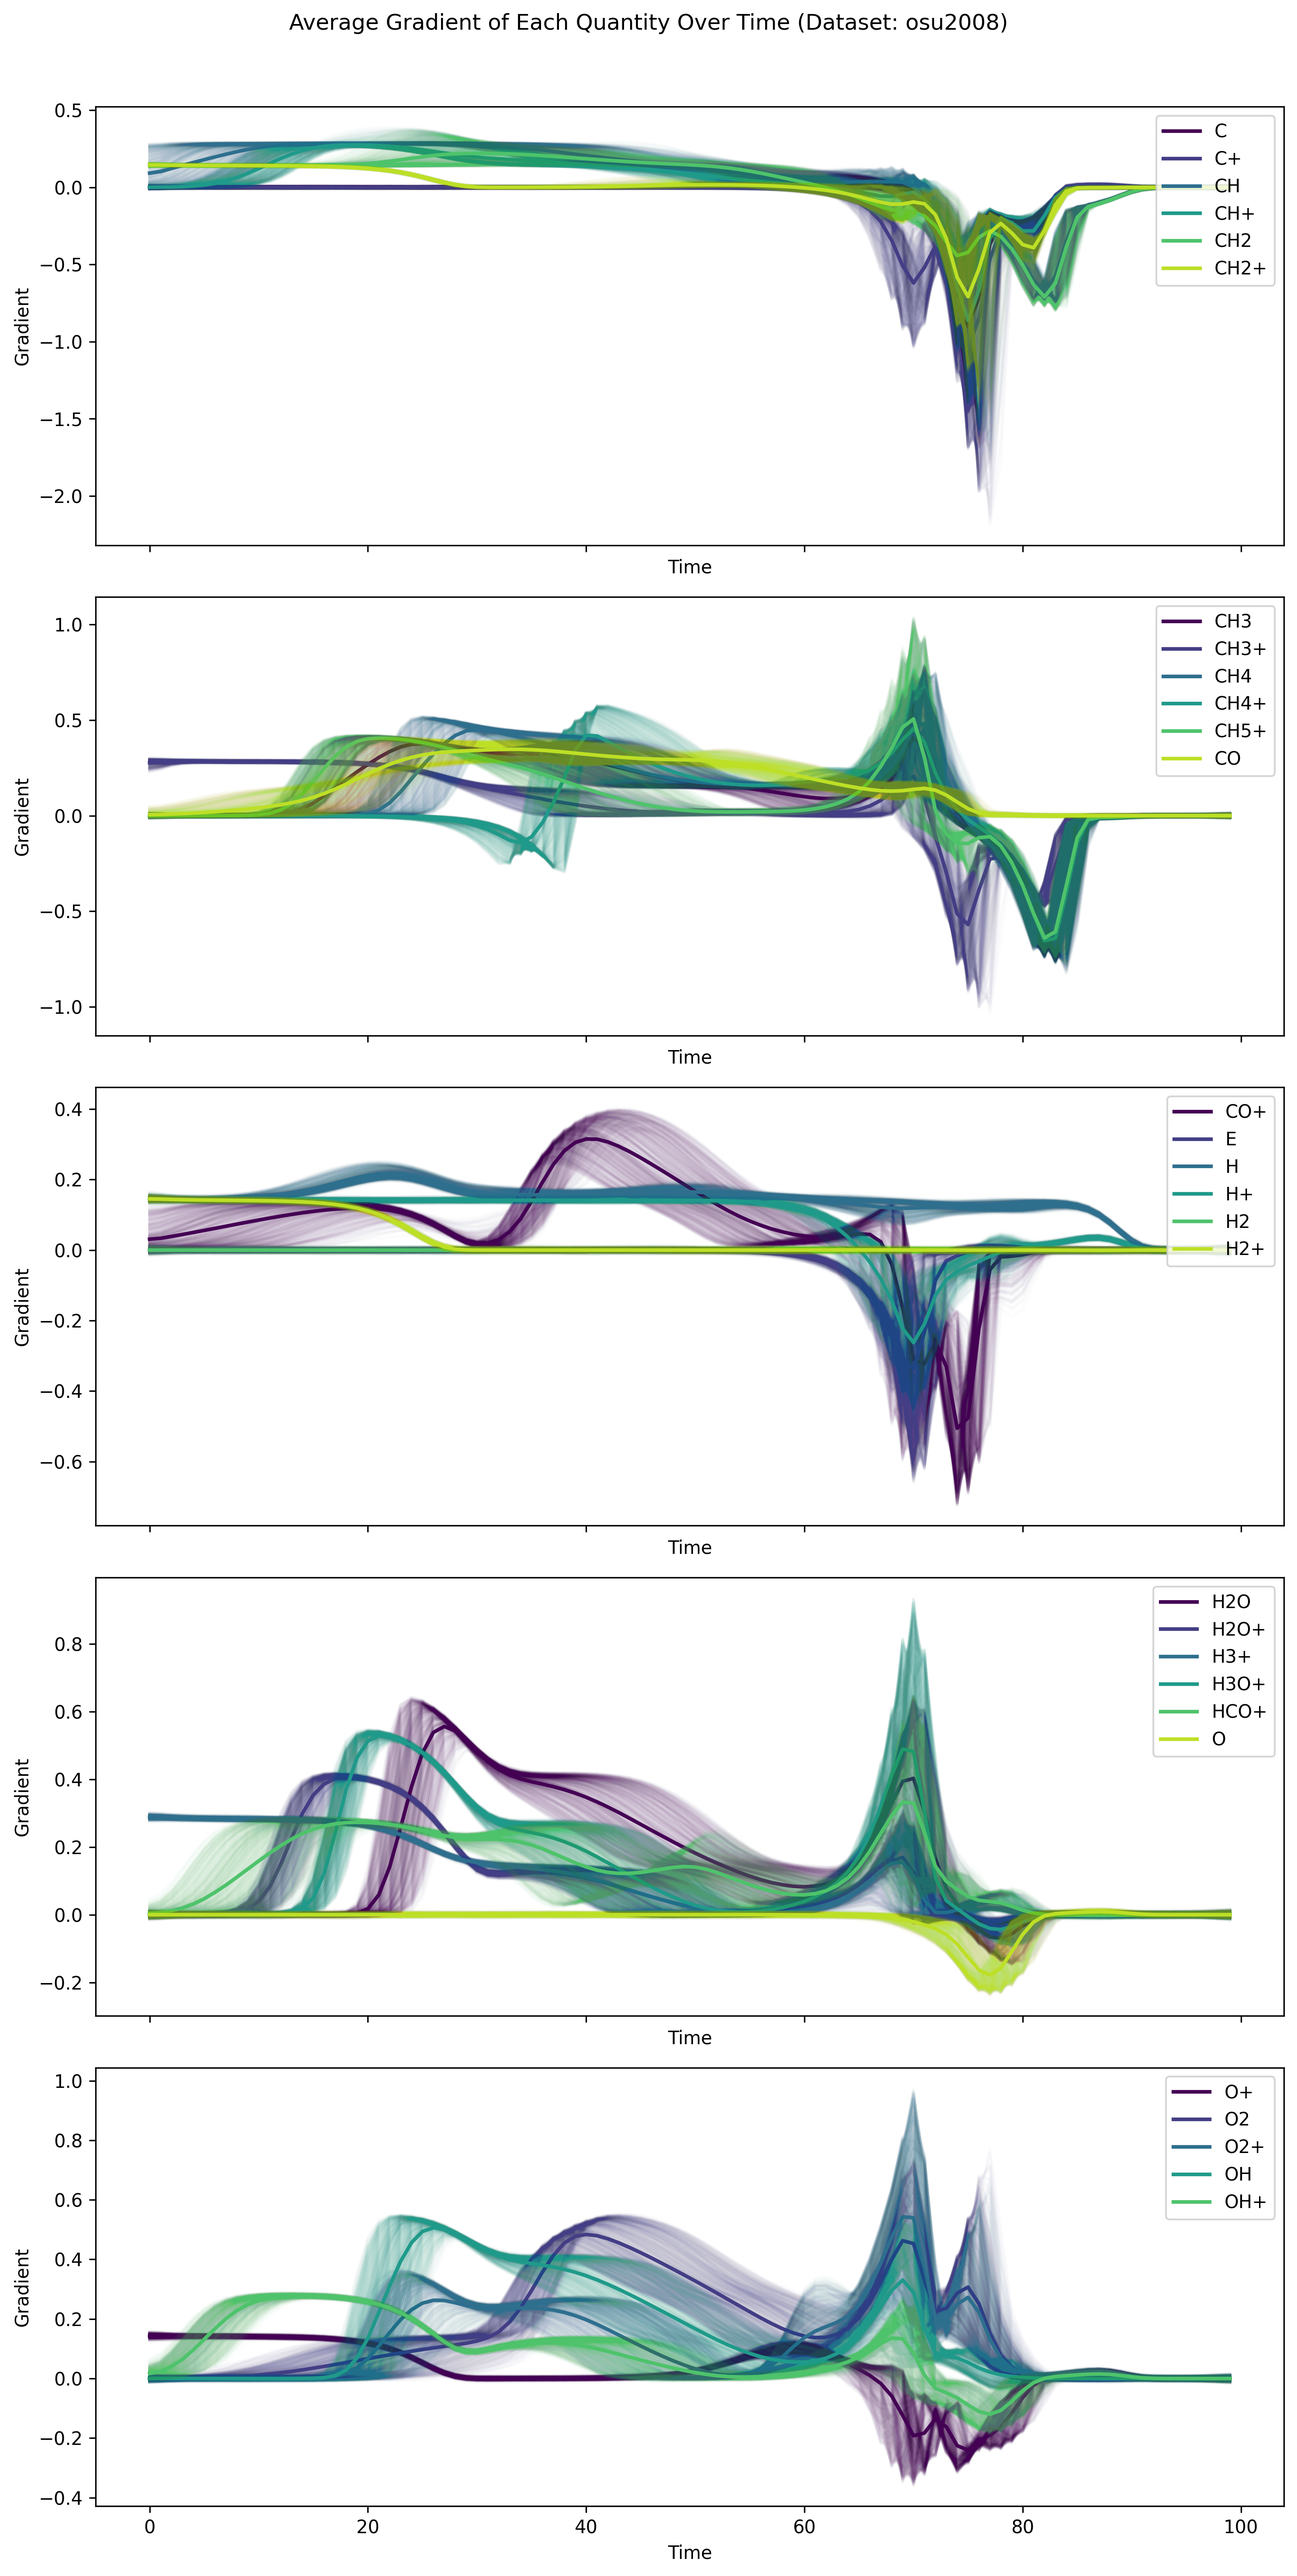
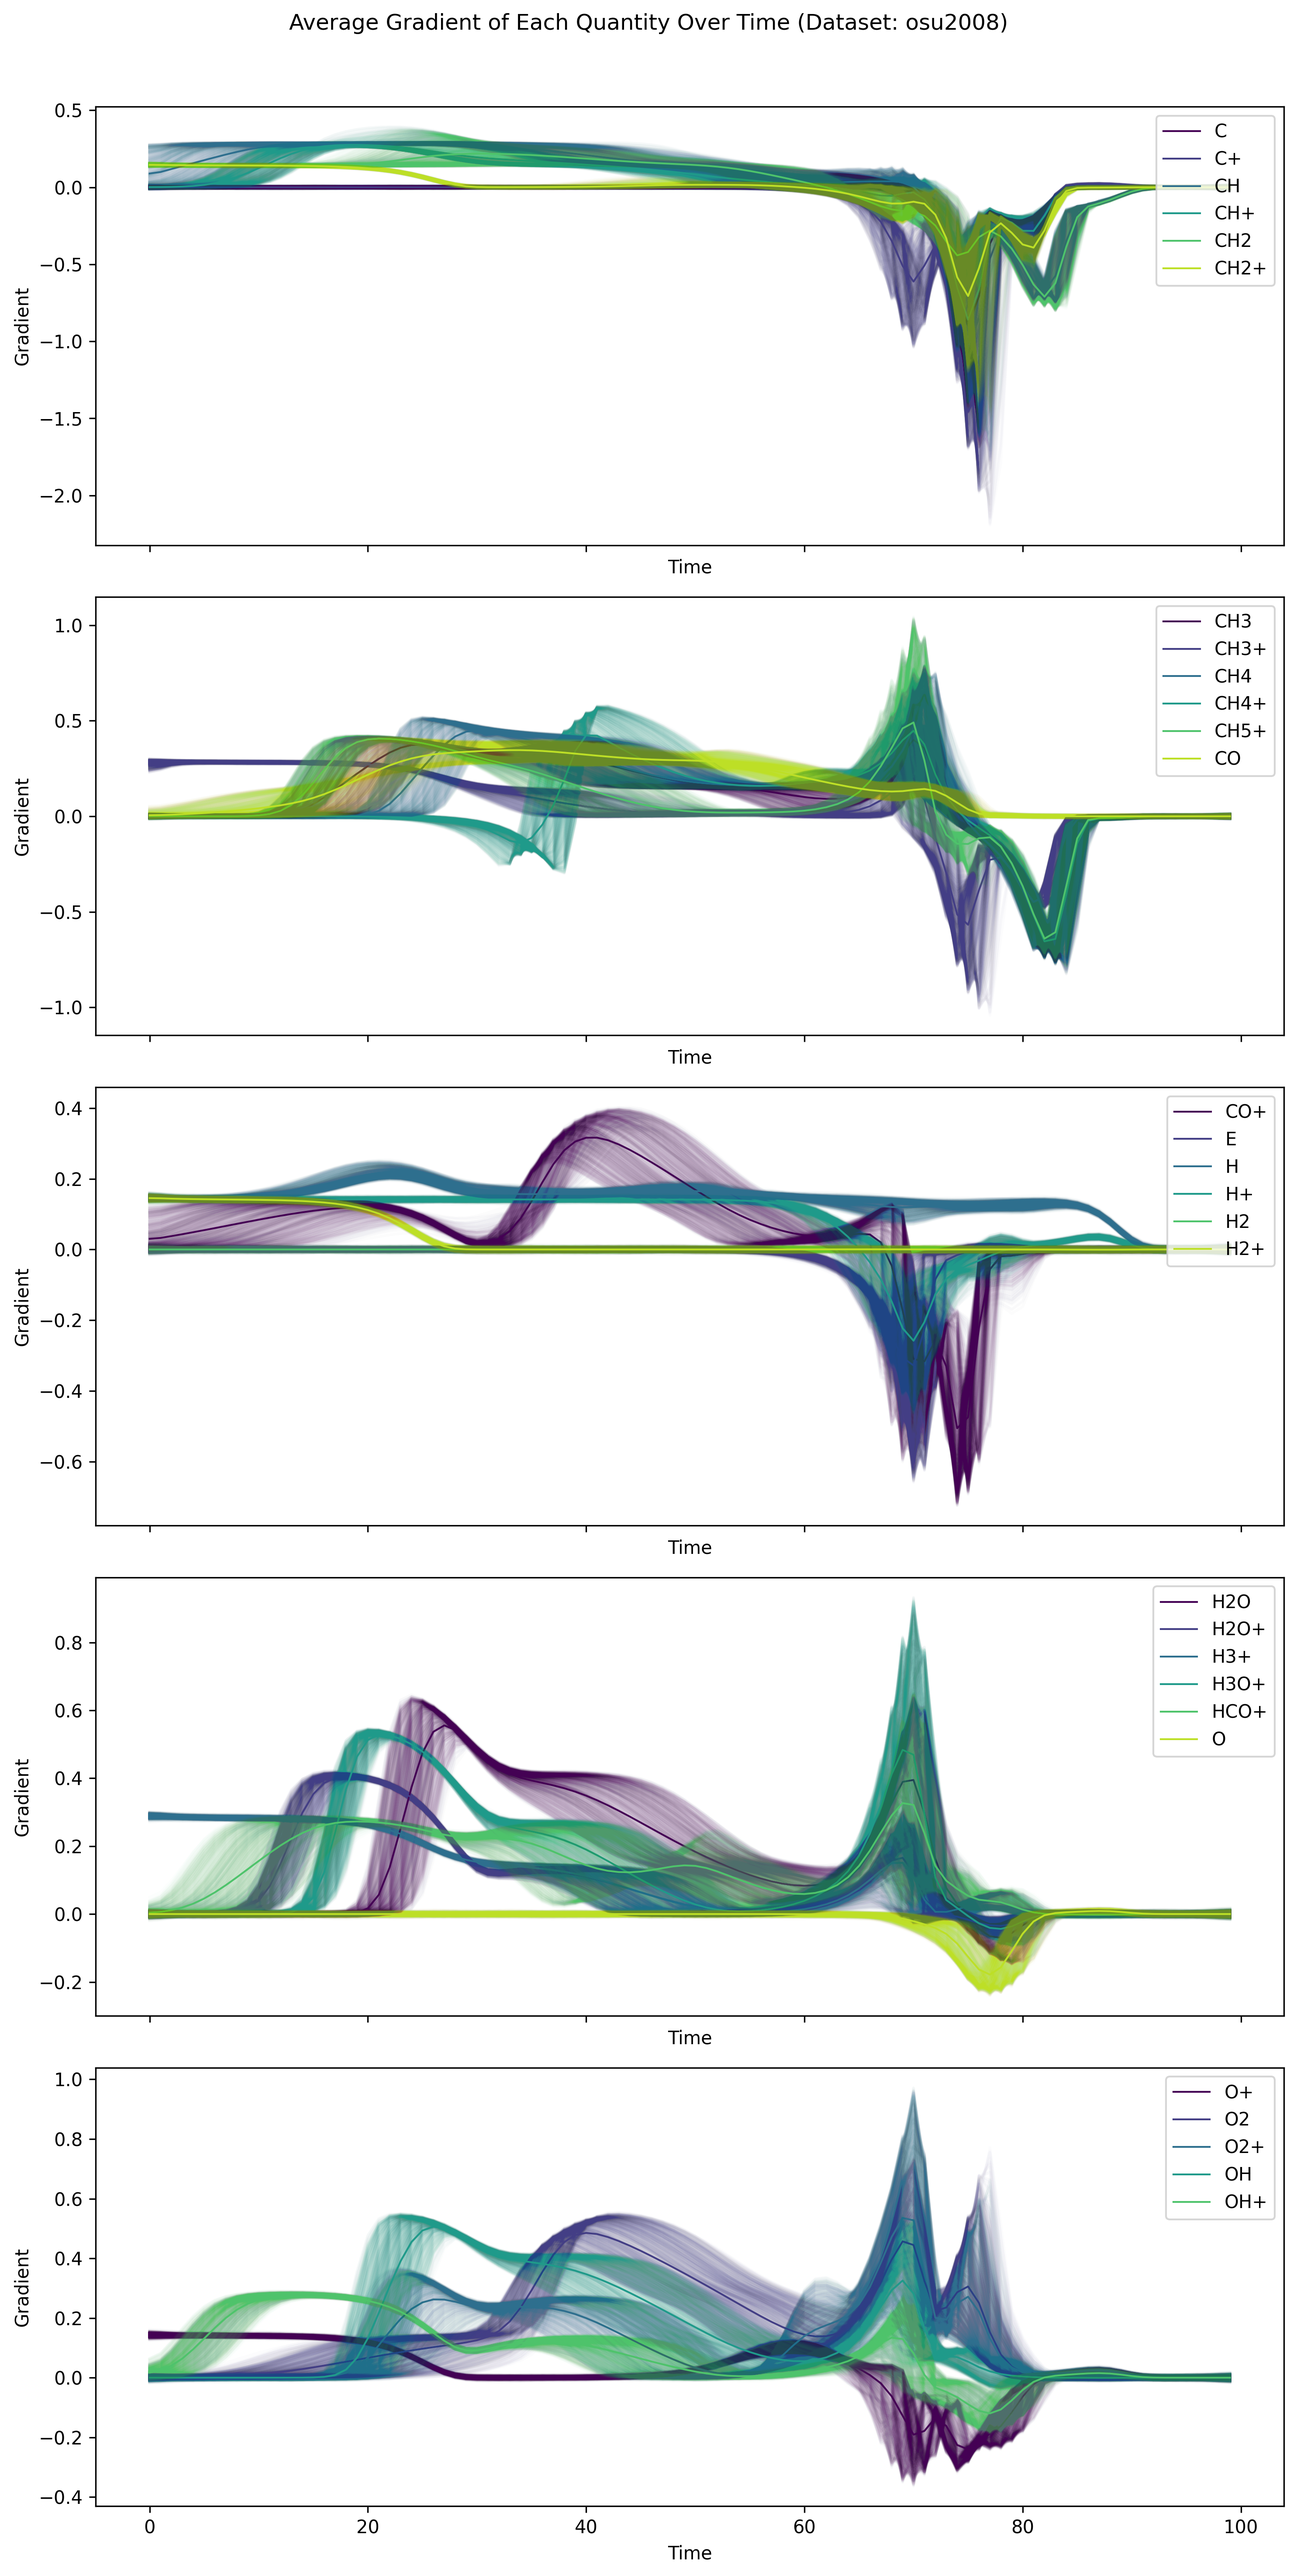
Redesigned plots and refined data generation

diff --git a/datasets/_data_generation/odes.py b/datasets/_data_generation/odes.py
@@ -3,36 +3,6 @@ from typing import Any, Dict
 import numpy as np
 
 
-def lotka_volterra_backup(t: float, n: np.ndarray) -> np.ndarray:
-    """
-    Defines the Lotka-Volterra predator-prey model with three predators and three prey.
-
-    Parameters
-    ----------
-    t : float
-        Current time.
-    n : np.ndarray
-        Current populations [p1, p2, p3, q1, q2, q3].
-
-    Returns
-    -------
-    np.ndarray
-        Derivatives [dp1/dt, dp2/dt, dp3/dt, dq1/dt, dq2/dt, dq3/dt].
-    """
-    p1, p2, p3, q1, q2, q3 = n
-    derivatives = np.array(
-        [
-            0.5 * p1 - 0.02 * p1 * q1 - 0.01 * p1 * q2,
-            0.6 * p2 - 0.03 * p2 * q1 - 0.015 * p2 * q3,
-            0.4 * p3 - 0.01 * p3 * q2 - 0.025 * p3 * q3,
-            -0.1 * q1 + 0.005 * p1 * q1 + 0.007 * p2 * q1,
-            -0.08 * q2 + 0.006 * p1 * q2 + 0.009 * p3 * q2,
-            -0.12 * q3 + 0.008 * p2 * q3 + 0.01 * p3 * q3,
-        ]
-    )
-    return derivatives
-
-
 def lotka_volterra(t: float, n: np.ndarray) -> np.ndarray:
     """
     Defines the Lotka-Volterra predator-prey model with three predators and three prey.
@@ -63,7 +33,7 @@ def lotka_volterra(t: float, n: np.ndarray) -> np.ndarray:
     return derivatives
 
 
-def reaction(t: float, n: np.ndarray) -> np.ndarray:
+def reaction_backup(t: float, n: np.ndarray) -> np.ndarray:
     """
     Defines a simple chemical reaction system.
 
@@ -92,6 +62,63 @@ def reaction(t: float, n: np.ndarray) -> np.ndarray:
     return derivatives
 
 
+import numpy as np
+
+
+def reaction(t: float, n: np.ndarray) -> np.ndarray:
+    """
+    Defines a chemically motivated reaction system with five species.
+
+    Reactions:
+        1. A → B                 (k1)
+        2. B + C ↔ D            (k2, k_minus2)
+        3. 2D → E               (k3)
+        4. E → A + C            (k4)
+        5. C → A                (k5)
+
+    Parameters
+    ----------
+    t : float
+        Current time.
+    n : np.ndarray
+        Current concentrations [A, B, C, D, E].
+
+    Returns
+    -------
+    np.ndarray
+        Derivatives [dA/dt, dB/dt, dC/dt, dD/dt, dE/dt].
+    """
+    # Unpack concentrations
+    s1, s2, s3, s4, s5 = n
+
+    # Define rate constants
+    k1 = 0.25  # Rate constant for A → B
+    k2 = 0.5  # Forward rate constant for B + C → D
+    k_minus2 = 0.25  # Reverse rate constant for D → B + C
+    k3 = 0.1  # Rate constant for 2D → E
+    k4 = 0.15  # Rate constant for E → A + C
+    k5 = 0.05  # Rate constant for C → A
+
+    # Calculate reaction rates
+    rate1 = k1 * s1
+    rate2_forward = k2 * s2 * s3
+    rate2_reverse = k_minus2 * s4
+    rate2_net = rate2_forward - rate2_reverse
+    rate3 = k3 * s4**2
+    rate4 = k4 * s5
+    rate5 = k5 * s3
+
+    # Differential equations
+    ds1_dt = -rate1 + rate4 + rate5
+    ds2_dt = rate1 - rate2_net
+    ds3_dt = -rate2_net - rate5 + rate4
+    ds4_dt = rate2_net - 2 * rate3
+    ds5_dt = rate3 - rate4
+
+    # Return derivatives
+    return np.array([ds1_dt, ds2_dt, ds3_dt, ds4_dt, ds5_dt])
+
+
 FUNCS: Dict[str, Dict[str, Any]] = {
     "lotka_volterra": {
         "func": lotka_volterra,
@@ -112,17 +139,17 @@ FUNCS: Dict[str, Dict[str, Any]] = {
     },
     "reaction": {
         "func": reaction,
-        "tsteps": np.linspace(0, 10, 101),
+        "tsteps": np.linspace(0, 3, 101),
         "ndim": 5,
         "labels": ["S1", "S2", "S3", "S4", "S5"],
         "sampling": {
             "space": "log",  # Options: 'linear', 'log'
             "bounds": [
-                (0.1, 10.0),  # S1
-                (0.1, 10.0),  # S2
-                (0.1, 10.0),  # S3
-                (0.1, 10.0),  # S4
-                (0.1, 10.0),  # S5
+                (0.1, 20.0),  # S1
+                (0.1, 20.0),  # S2
+                (0.1, 20.0),  # S3
+                (1, 30.0),  # S4
+                (1, 30.0),  # S5
             ],
         },
     },

diff --git a/datasets/_data_analysis/data_plots.py b/datasets/_data_analysis/data_plots.py
@@ -610,6 +610,7 @@ def plot_all_gradients_over_time(
     max_quantities: int = 10,
     spread: float = 0.01,  # Spread for Gaussian noise
     noise_smoothing: float = 2.0,  # Controls how smooth the noise is along the trajectory
+    quantities_per_plot: int = 6,
 ) -> None:
     """
     Plot the average gradient of each quantity in the train dataset over time,
@@ -622,6 +623,7 @@ def plot_all_gradients_over_time(
         max_quantities (int, optional): Maximum number of quantities to plot. Default is 10.
         spread (float, optional): Spread for adding Gaussian noise to the trajectories. Default is 0.05.
         noise_smoothing (float, optional): Sigma for smoothing the noise along the trajectory. Default is 2.0.
+        quantities_per_plot (int, optional): Number of quantities to plot per subplot. Default is 6.
     """
     # Ensure that no more than 1000 trajectories are plotted
     if train_data.shape[0] > 1000:
@@ -647,8 +649,7 @@ def plot_all_gradients_over_time(
     n_timesteps = train_data.shape[1]
     time = np.arange(n_timesteps)
 
-    # Split the quantities into groups of 10
-    quantities_per_plot = 6
+    # Split the quantities into groups
     num_plots = int(np.ceil(num_quantities / quantities_per_plot))
 
     # Create subplots with shared x-axis
@@ -691,7 +692,7 @@ def plot_all_gradients_over_time(
                     else f"Quantity {i + 1}"
                 ),
                 color=colors[i % quantities_per_plot],
-                linewidth=2,  # Make the average line more visible
+                linewidth=1,  # Make the average line more visible
             )
 
         ax.set_xlabel("Time")
@@ -728,6 +729,7 @@ def plot_all_trajectories_over_time(
     chemical_names: list[str] | None = None,
     max_quantities: int = 10,
     spread: float = 0.01,  # Spread for Gaussian noise
+    quantities_per_plot: int = 6,
 ) -> None:
     """
     Plot the average gradient of each quantity in the train dataset over time,
@@ -739,6 +741,7 @@ def plot_all_trajectories_over_time(
         chemical_names (list, optional): List of chemical names for labeling the lines.
         max_quantities (int, optional): Maximum number of quantities to plot. Default is 10.
         spread (float, optional): Spread for adding Gaussian noise to the trajectories. Default is 0.05.
+        quantities_per_plot (int, optional): Number of quantities to plot per subplot. Default is 6.
     """
     # Ensure that no more than 1000 trajectories are plotted
     if train_data.shape[0] > 1000:
@@ -760,7 +763,6 @@ def plot_all_trajectories_over_time(
     time = np.arange(n_timesteps)
 
     # Split the quantities into groups of quantities_per_plot
-    quantities_per_plot = 6
     num_plots = int(np.ceil(num_quantities / quantities_per_plot))
 
     # Create subplots with shared x-axis
@@ -801,7 +803,7 @@ def plot_all_trajectories_over_time(
                     else f"Quantity {i + 1}"
                 ),
                 color=colors[i % quantities_per_plot],
-                linewidth=2,  # Make the average line more visible
+                linewidth=1,  # Make the average line more visible
             )
 
         ax.set_xlabel("Time")

diff --git a/datasets/_data_analysis/analyse_dataset.py b/datasets/_data_analysis/analyse_dataset.py
@@ -76,7 +76,7 @@ def main(args):
             full_data,
             labels,
             max_quantities=10,
-            threshold=2,
+            threshold=0.8,
             max_faulty=5,
         )
 
@@ -97,18 +97,20 @@ def main(args):
         max_quantities=30,
     )
 
-    plot_all_gradients_over_time(
-        args.dataset,
-        full_data,
-        labels,
-        max_quantities=30,
-    )
-
     plot_all_trajectories_over_time(
         args.dataset,
         full_data,
         labels,
         max_quantities=30,
+        quantities_per_plot=3,
+    )
+
+    plot_all_gradients_over_time(
+        args.dataset,
+        full_data,
+        labels,
+        max_quantities=30,
+        quantities_per_plot=3,
     )
 
 
@@ -116,7 +118,7 @@ if __name__ == "__main__":
     parser = ArgumentParser()
     parser.add_argument(
         "--dataset",
-        default="lotka_volterra",
+        default="simple_reaction_2",
         type=str,
         help="Name of the dataset.",
     )

diff --git a/datasets/_data_generation/generate_data.py b/datasets/_data_generation/generate_data.py
@@ -345,14 +345,14 @@ def parse_args() -> ArgumentParser:
         "-f",
         type=str,
         choices=FUNCS.keys(),
-        default="lotka_volterra",
+        default="reaction",
         help=f"Name of the function to generate data for (default: 'lotka_volterra'). Choices: {list(FUNCS.keys())}.",
     )
     parser.add_argument(
         "--name",
         "-n",
         type=str,
-        default="lotka_volterra_DOP853",
+        default="simple_reaction_2",
         help="Name of the dataset (default: 'lotka_volterra_new').",
     )
     parser.add_argument(
@@ -365,7 +365,7 @@ def parse_args() -> ArgumentParser:
         "--seed",
         "-s",
         type=int,
-        default=None,
+        default=42,
         help="Seed for random number generator (default: None).",
     )
     return parser.parse_args()
